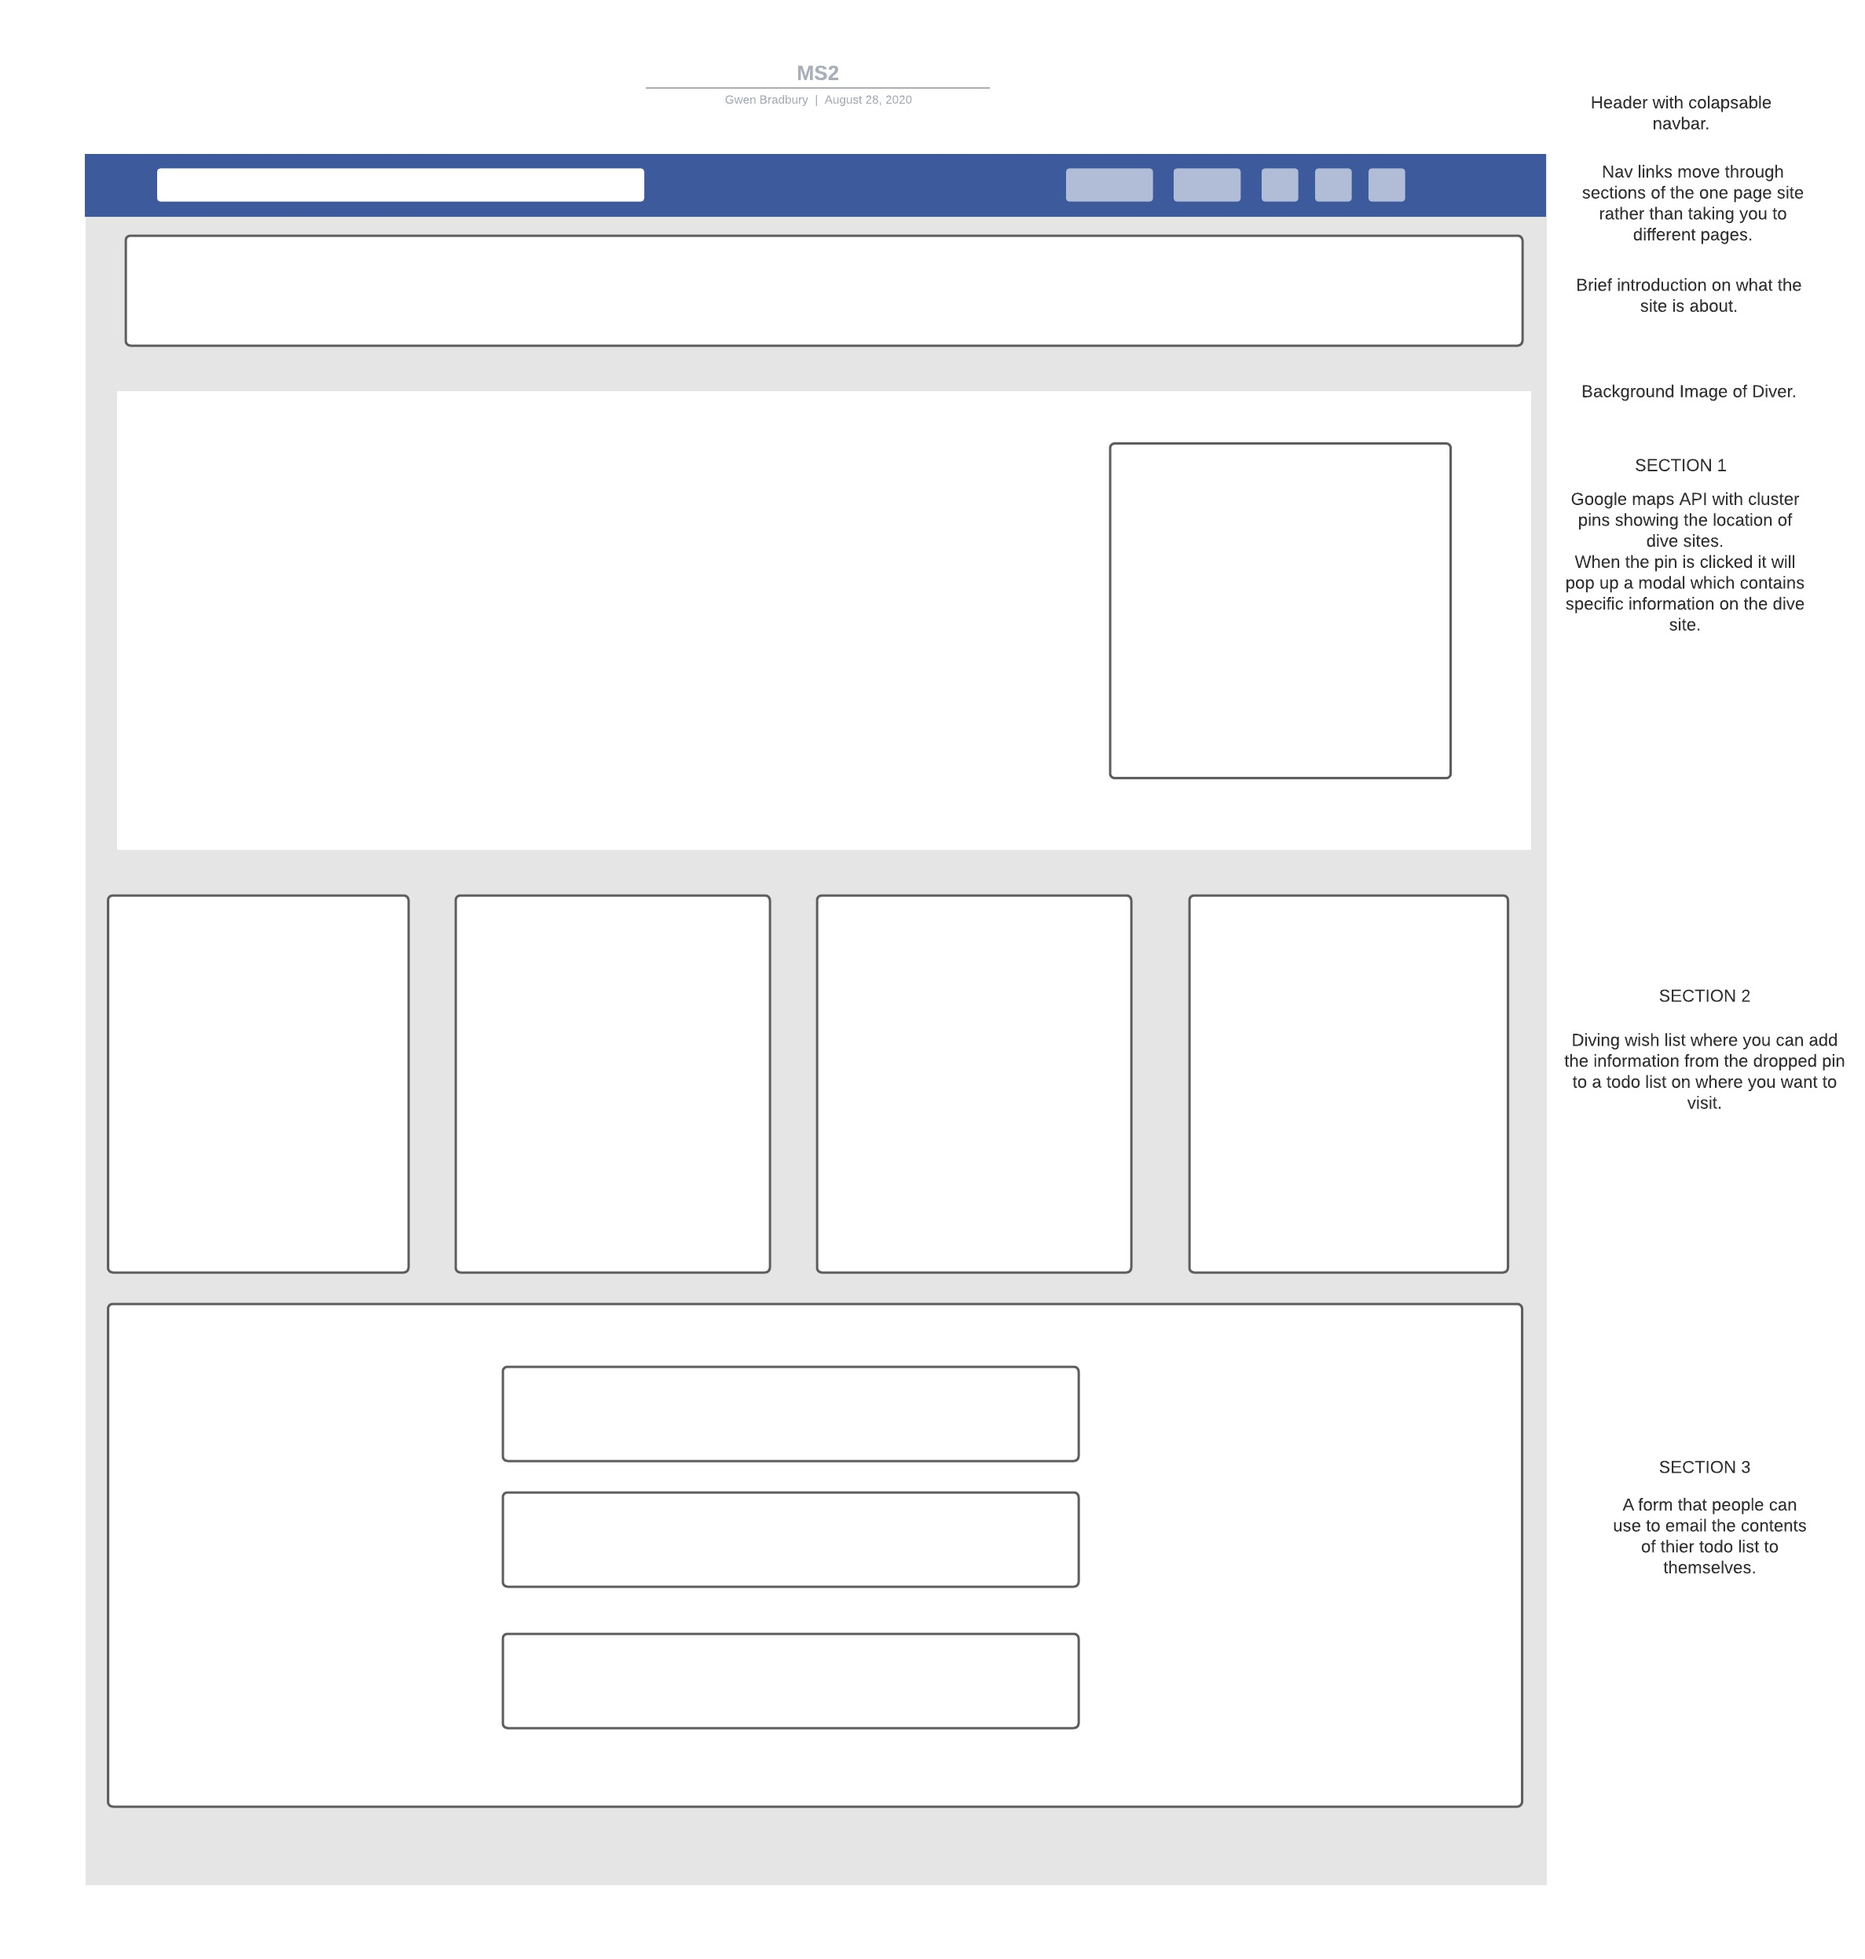
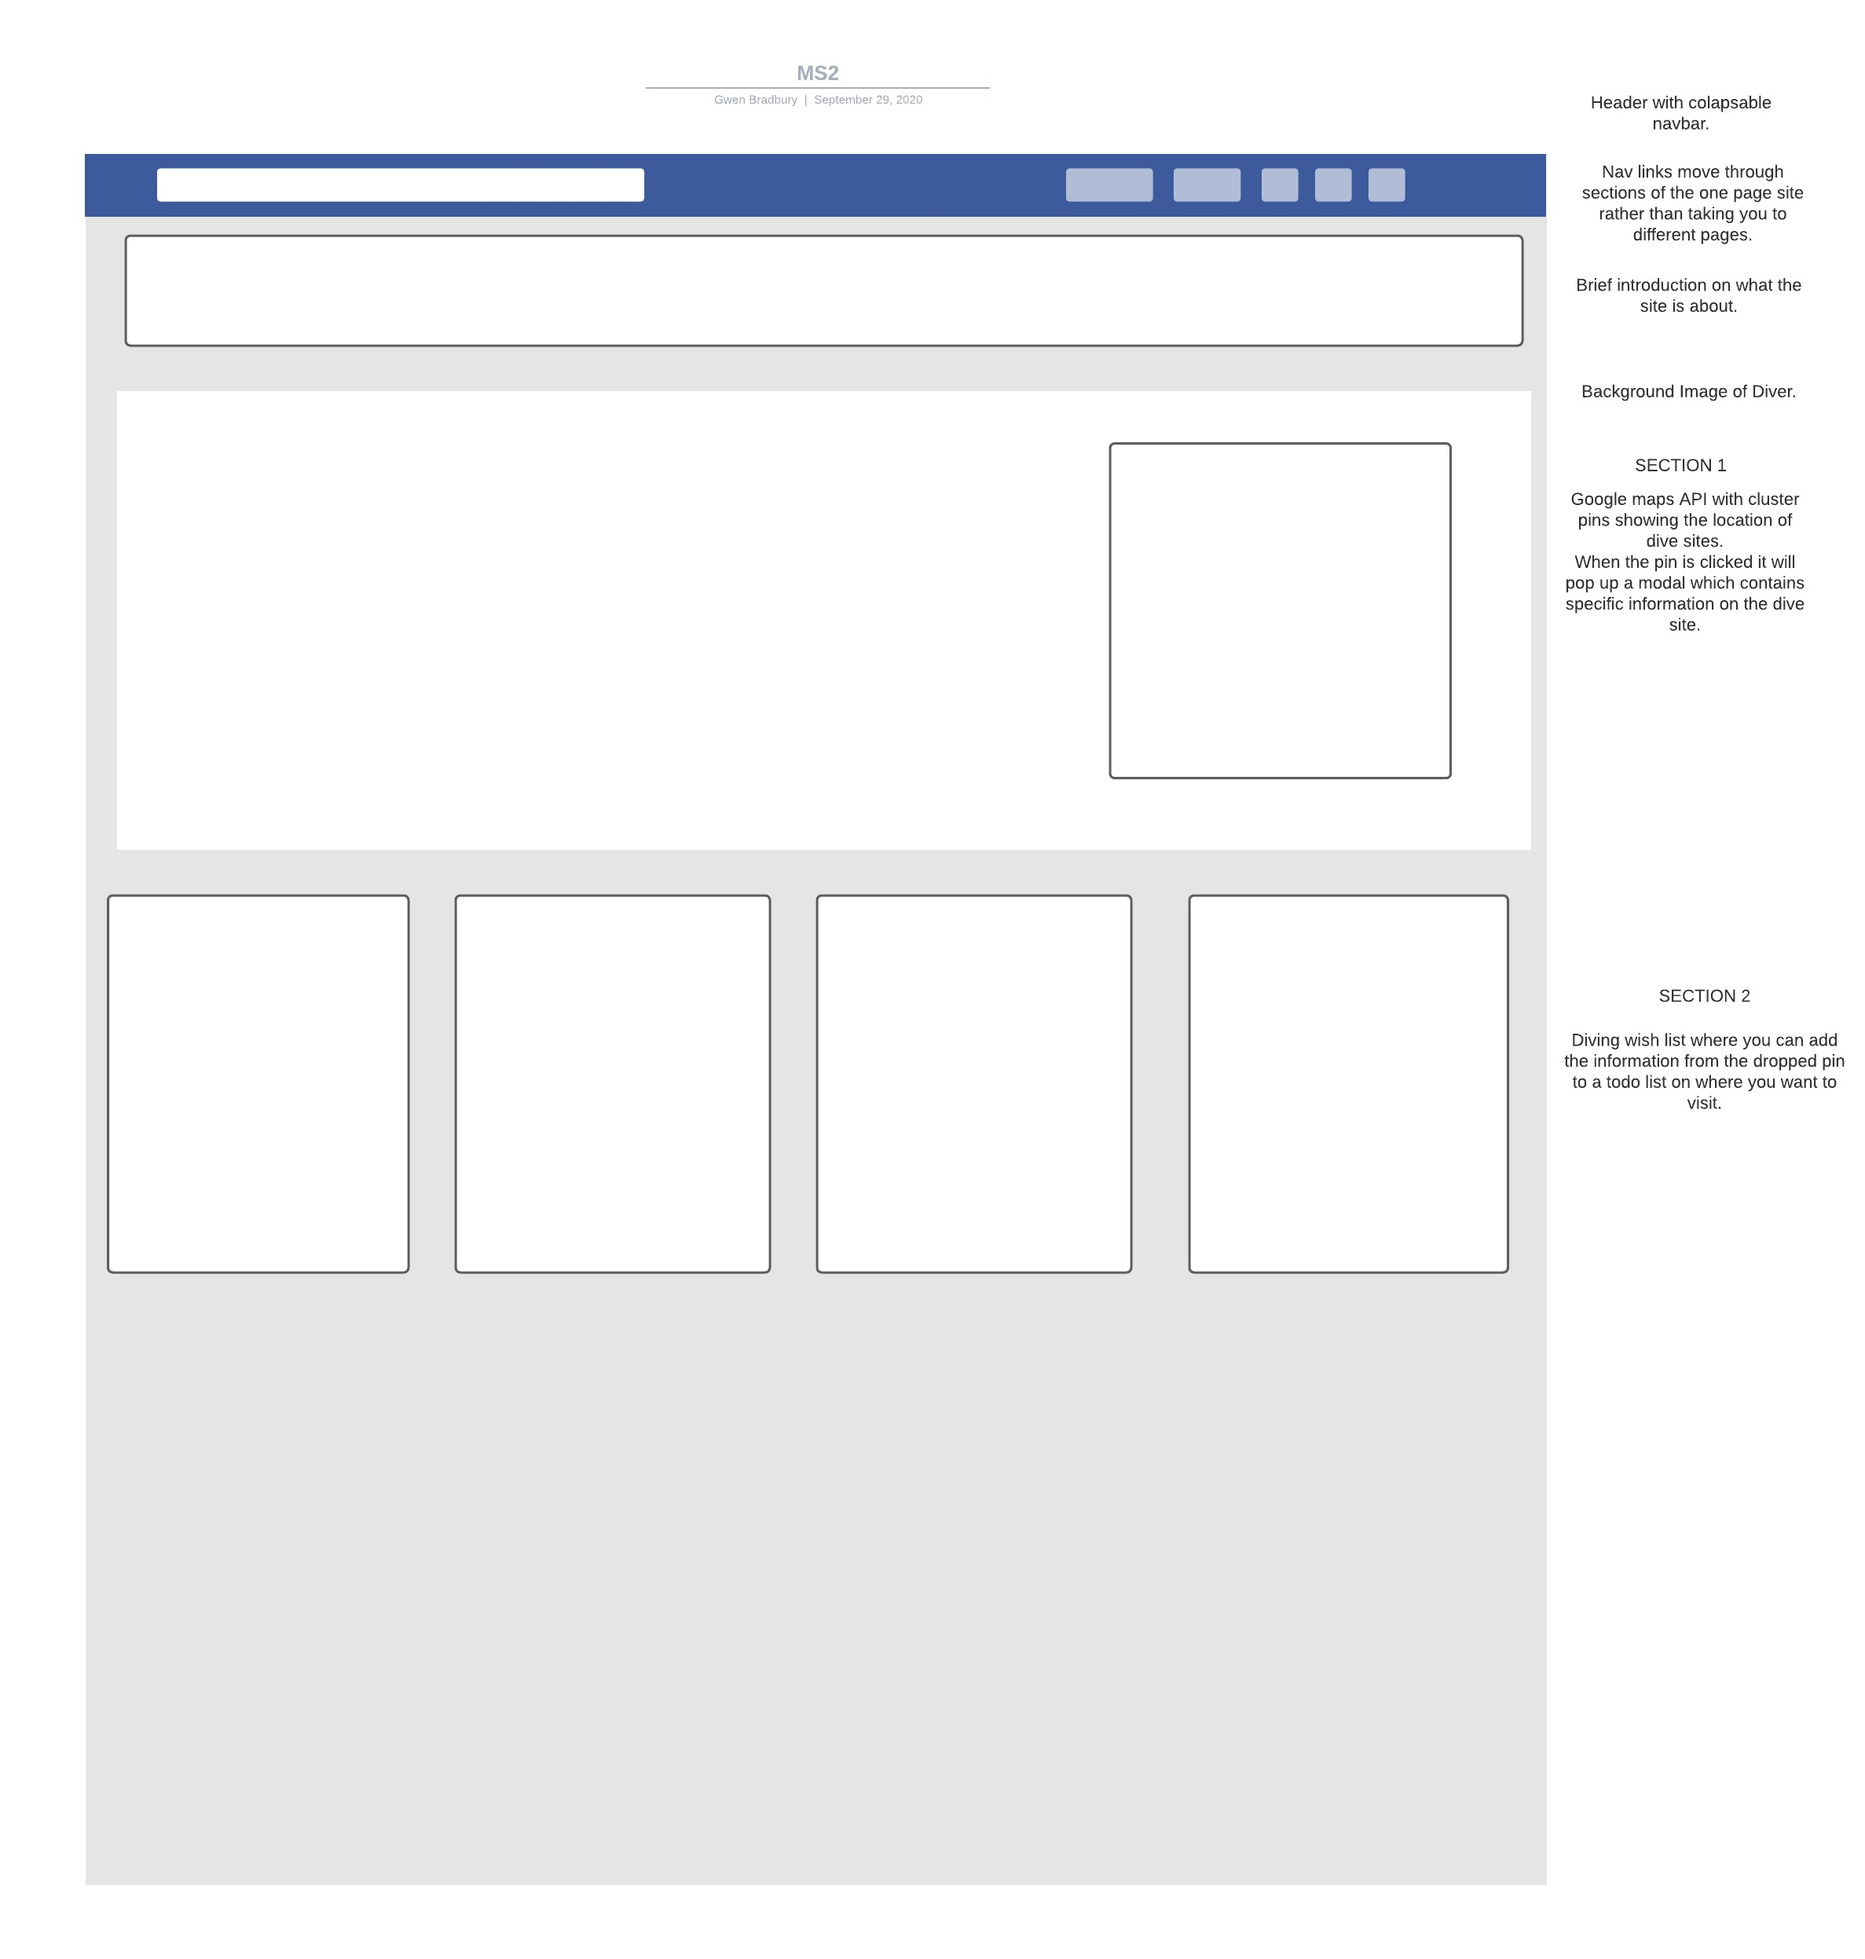
updated wireframe-removed email section

Changed region(s): [[0.0312, 0.6484, 0.8416, 0.9262], [0.8728, 0.741, 0.9663, 0.8027]]

diff --git a/assets/js/wishList.js b/assets/js/wishList.js
@@ -1,88 +1,88 @@
-let todoInput = document.querySelector('.todo-input');
-let todoButton = document.querySelector('.todo-button');
-let todoList = document.querySelector('.todo-list');
+let locationInput = document.querySelector('.location-input');
+let locationButton = document.querySelector('.location-button');
+let locationList = document.querySelector('.location-list');
 
-document.addEventListener('DOMContentLoaded', getTodos);
-todoButton.addEventListener('click', addTodo);
-todoList.addEventListener('click', removeLocation);
+document.addEventListener('DOMContentLoaded', getLocations);
+locationButton.addEventListener('click', addLocation);
+locationList.addEventListener('click', removeLocation);
 
-function addTodo(event) {
+function addLocation(event) {
 
     event.preventDefault();
 
-    let todoDiv = document.createElement('div');
-    todoDiv.classList.add('todo');
+    let locationDiv = document.createElement('div');
+    locationDiv.classList.add('location');
 
-let newTodo = document.createElement('li');
-newTodo.innerText = todoInput.value;
-newTodo.classList.add('todo-item');
-todoDiv.appendChild(newTodo);
+let newLocation = document.createElement('li');
+newLocation.innerText = locationInput.value;
+newLocation.classList.add('location-item');
+locationDiv.appendChild(newLocation);
 
-saveLocalTodos(todoInput.value)
+saveLocalLocations(locationInput.value)
 
-let trashButton = document.createElement('button');
-trashButton.innerHTML = '<i class="fas fa-trash"></i>';
-trashButton.classList.add("trash-btn");
-todoDiv.appendChild(trashButton);
+let removeButton = document.createElement('button');
+removeButton.innerHTML = '<i class="fas fa-trash"></i>';
+removeButton.classList.add("remove-btn");
+locationDiv.appendChild(removeButton);
 
-todoList.appendChild(todoDiv);
+locationList.appendChild(locationDiv);
 
-todoInput.value = "";
+locationInput.value = "";
 }
 
 function removeLocation(e) {
     let item = e.target;
-    if(item.classList[0] === 'trash-btn') {
-        let todo = item.parentElement;
-        removeLocalTodos(todo);
-        todo.remove();
+    if(item.classList[0] === 'remove-btn') {
+        let location = item.parentElement;
+        removeLocalLocations(location);
+        location.remove();
     }
 }
 
-function saveLocalTodos(todo) {
-    let todos;
-    if(localStorage.getItem('todos') === null) {
-        todos = [];
+function saveLocalLocations(location) {
+    let locations;
+    if(localStorage.getItem('locations') === null) {
+        locations = [];
     }else{
-        todos = JSON.parse(localStorage.getItem('todos'));
+        locations = JSON.parse(localStorage.getItem('locations'));
     }
-    todos.push(todo);
-    localStorage.setItem("todos", JSON.stringify(todos));
+    locations.push(location);
+    localStorage.setItem("locations", JSON.stringify(locations));
 }
 
-function getTodos() {
-    let todos;
-    if(localStorage.getItem('todos') === null) {
-        todos = [];
+function getLocations() {
+    let locations;
+    if(localStorage.getItem('locations') === null) {
+        locations = [];
     }else{
-        todos = JSON.parse(localStorage.getItem('todos'));
+        locations = JSON.parse(localStorage.getItem('locations'));
     }
-    todos.forEach(function(todo) {
-         let todoDiv = document.createElement('div');
-    todoDiv.classList.add('todo');
+    locations.forEach(function(location) {
+         let locationDiv = document.createElement('div');
+    locationDiv.classList.add('location');
 
-let newTodo = document.createElement('li');
-newTodo.innerText = todo;
-newTodo.classList.add('todo-item');
-todoDiv.appendChild(newTodo);
+let newLocation = document.createElement('li');
+newLocation.innerText = location;
+newLocation.classList.add('location-item');
+locationDiv.appendChild(newLocation);
 
-let trashButton = document.createElement('button');
-trashButton.innerHTML = '<i class="fas fa-trash"></i>';
-trashButton.classList.add("trash-btn");
-todoDiv.appendChild(trashButton);
+let removeButton = document.createElement('button');
+removeButton.innerHTML = '<i class="fas fa-trash"></i>';
+removeButton.classList.add("remove-btn");
+locationDiv.appendChild(removeButton);
 
-todoList.appendChild(todoDiv);
+locationList.appendChild(locationDiv);
     });
 }
 
-function removeLocalTodos(todo) {
-    let todos;
-    if(localStorage.getItem('todos') === null) {
-        todos = [];
+function removeLocalLocations(location) {
+    let locations;
+    if(localStorage.getItem('locations') === null) {
+        locations = [];
     }else{
-        todos = JSON.parse(localStorage.getItem('todos'));
+        locations = JSON.parse(localStorage.getItem('locations'));
     }
-    let todoIndex = todo.children[0].innerText;
-    todos.splice(todos.indexOf(todoIndex), 1);
-    localStorage.setItem("todos", JSON.stringify(todos));
+    let locationIndex = location.children[0].innerText;
+    locations.splice(locations.indexOf(locationIndex), 1);
+    localStorage.setItem("locations", JSON.stringify(locations));
 }

diff --git a/assets/js/maps.js b/assets/js/maps.js
@@ -5,7 +5,7 @@ function initMap() {
             center: {
                 lat: 51.5074,
                 lng: -0.1278
-            }  
+            }
         });
 
         let diveSite = [
@@ -56,29 +56,21 @@ function initMap() {
         }
 
         function setDivesite(props){ 
-            
             let marker = new google.maps.Marker({
                 position: props.coordinates,
                 map: map,
                 animation: google.maps.Animation.DROP
               });
-
+    
                   let infoWindow = new google.maps.InfoWindow({
         content: props.content
         });
 
         marker.addListener('click', function() {
-
-let openInfoWindow =false; 
-
-    google.maps.event.addListener(marker, 'click', function(){
-        if( openInfoWindow ) {
-           openInfoWindow.close();
-        }
-
-       openInfoWindow = infoWindow;
-        infoWindow.open(map, marker);
+        infoWindow.open(map, marker); 
+        map.addListener('click', function() {
+        infoWindow.close(map, marker); 
+        });
     });
-});
-}
-}
+        }
+    }

diff --git a/index.html b/index.html
@@ -73,12 +73,12 @@
             <div id="wishList" class="center-form">
         <h4>Wish List</h4>
         <form>
-        <input type="text" class="todo-input">
-        <button class="todo-button" type="submit"><i class="fas fa-plus-square"></i>
+        <input type="text" class="location-input">
+        <button class="location-button" type="submit"><i class="fas fa-plus-square"></i>
         </button>
         </form>
-        <div class="todo-container">
-        <ul class="todo-list">
+        <div class="location-container">
+        <ul class="location-list">
         </ul>
         </div>
             </div>

diff --git a/assets/css/style.css b/assets/css/style.css
@@ -73,7 +73,7 @@ nav {
     background-color: #1c20ee;
 }
 
-.todo-item,
+.location-item,
 .items {
     padding-top: 5px;
     font-size: 150%;
@@ -82,17 +82,12 @@ nav {
     text-align: center;
 }
 
-.toto-item {
-    display: flex;
-    padding-left: 5px;
-}
-
 .fa-trash {
     pointer-events: none;
 }
 
-.todo-button,
-.trash-btn {
+.location-button,
+.remove-btn {
     background-color: #14213d;
     color: #e5e5e5;
 }
